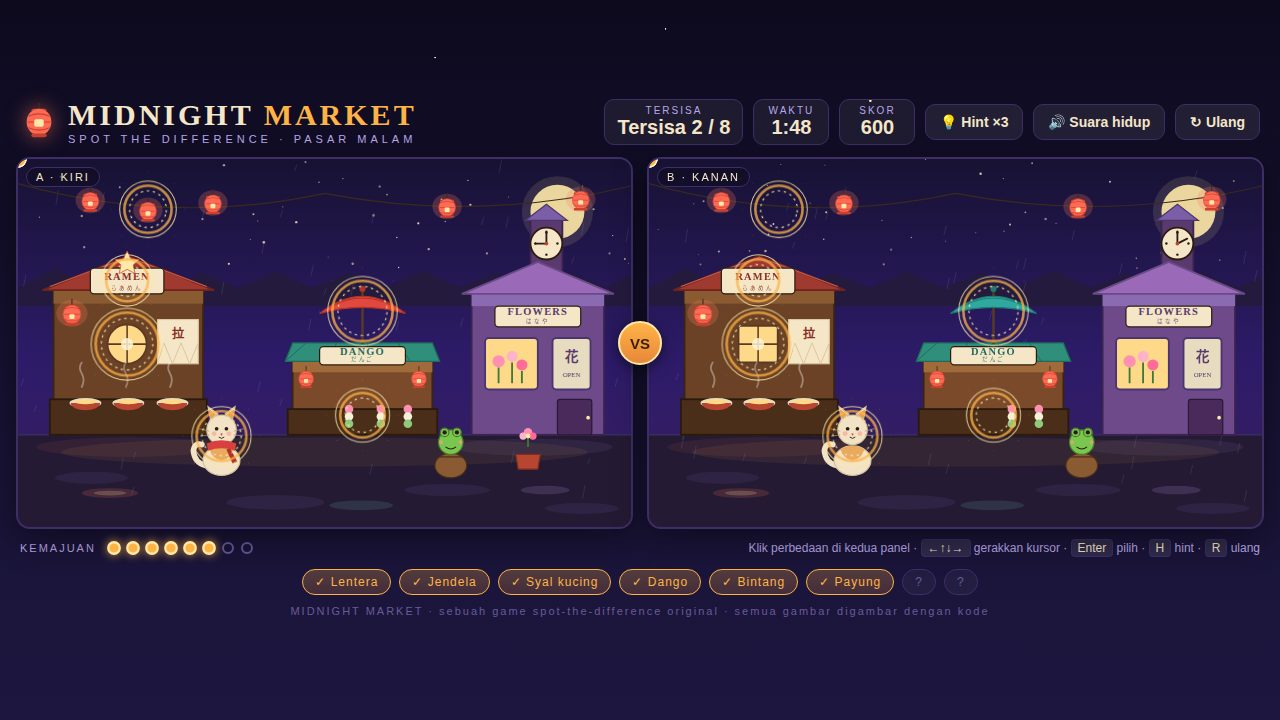
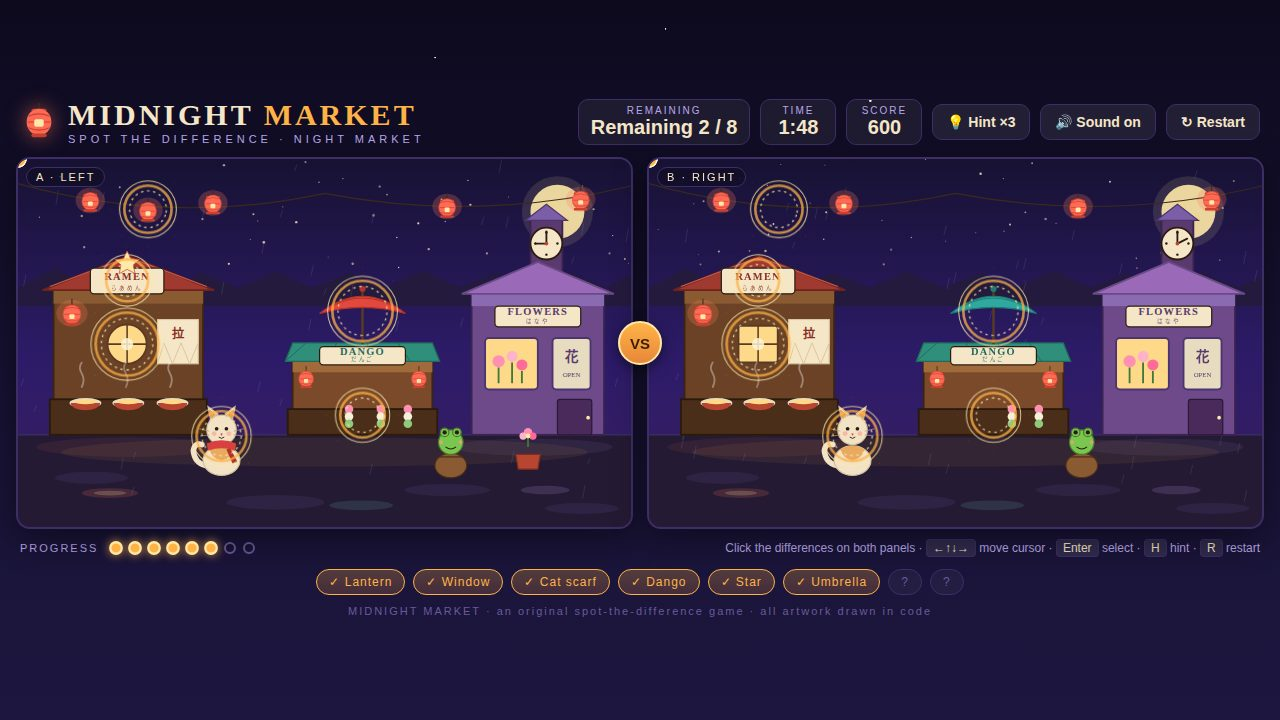
Translate MIDNIGHT MARKET fully to English — HUD, screens, difference names, footer; new screenshots

diff --git a/game/index.html b/game/index.html
@@ -1,5 +1,5 @@
 <!DOCTYPE html>
-<html lang="id">
+<html lang="en">
 <head>
 <meta charset="utf-8">
 <meta name="viewport" content="width=device-width, initial-scale=1">
@@ -20,35 +20,35 @@
       </svg>
       <div>
         <h1>MIDNIGHT <span>MARKET</span></h1>
-        <small>SPOT THE DIFFERENCE · PASAR MALAM</small>
+        <small>SPOT THE DIFFERENCE · NIGHT MARKET</small>
       </div>
     </div>
     <div class="hud" role="status" aria-live="polite">
-      <div class="stat"><span class="label">Tersisa</span><span class="value" id="counter">8 / 8</span></div>
-      <div class="stat timer"><span class="label">Waktu</span><span class="value" id="timer">3:00</span></div>
-      <div class="stat"><span class="label">Skor</span><span class="value" id="score">0</span></div>
-      <button class="btn" id="hint-btn" type="button" title="Sorot satu perbedaan yang belum ketemu (H)">💡 Hint ×<span id="hints-left">3</span></button>
-      <button class="btn" id="mute-btn" type="button" aria-pressed="false">🔊 Suara hidup</button>
-      <button class="btn" id="restart-btn" type="button" title="Mulai ulang (R)">↻ Ulang</button>
+      <div class="stat"><span class="label">Remaining</span><span class="value" id="counter">8 / 8</span></div>
+      <div class="stat timer"><span class="label">Time</span><span class="value" id="timer">3:00</span></div>
+      <div class="stat"><span class="label">Score</span><span class="value" id="score">0</span></div>
+      <button class="btn" id="hint-btn" type="button" title="Highlight one difference you haven't found yet (H)">💡 Hint ×<span id="hints-left">3</span></button>
+      <button class="btn" id="mute-btn" type="button" aria-pressed="false">🔊 Sound on</button>
+      <button class="btn" id="restart-btn" type="button" title="Restart (R)">↻ Restart</button>
     </div>
   </header>
 
   <main class="panels">
-    <div class="panel" id="panel-a" tabindex="0" role="button" aria-label="Panel kiri: klik perbedaan yang kamu temukan, atau gerakkan kursor dengan panah lalu tekan Enter">
+    <div class="panel" id="panel-a" tabindex="0" role="button" aria-label="Left panel: click the differences you find, or move the cursor with the arrow keys and press Enter">
       <div class="scene"></div>
-      <span class="panel-tag">A · KIRI</span>
+      <span class="panel-tag">A · LEFT</span>
     </div>
     <div class="vs-badge" aria-hidden="true">VS</div>
-    <div class="panel" id="panel-b" tabindex="0" role="button" aria-label="Panel kanan: klik perbedaan yang kamu temukan, atau gerakkan kursor dengan panah lalu tekan Enter">
+    <div class="panel" id="panel-b" tabindex="0" role="button" aria-label="Right panel: click the differences you find, or move the cursor with the arrow keys and press Enter">
       <div class="scene"></div>
-      <span class="panel-tag">B · KANAN</span>
+      <span class="panel-tag">B · RIGHT</span>
     </div>
   </main>
 
   <div class="progress">
-    <span class="cap">Kemajuan</span>
-    <span id="dots" aria-label="Perbedaan yang sudah ditemukan"></span>
-    <span class="hint">Klik perbedaan di kedua panel · <kbd>←↑↓→</kbd> gerakkan kursor · <kbd>Enter</kbd> pilih · <kbd>H</kbd> hint · <kbd>R</kbd> ulang</span>
+    <span class="cap">Progress</span>
+    <span id="dots" aria-label="Differences found so far"></span>
+    <span class="hint">Click the differences on both panels · <kbd>←↑↓→</kbd> move cursor · <kbd>Enter</kbd> select · <kbd>H</kbd> hint · <kbd>R</kbd> restart</span>
   </div>
 
   <div class="found-list" id="found-list" aria-label="Daftar perbedaan"></div>
@@ -56,42 +56,42 @@
   <div class="screen" id="screen-start">
     <div class="card">
       <h2>MIDNIGHT <span>MARKET</span></h2>
-      <p class="sub">Pasar malam Jepang di bawah hujan — dua gambar yang hampir sama, delapan perbedaan yang bersembunyi.</p>
+      <p class="sub">A Japanese night market in the rain — two nearly identical pictures, eight hidden differences.</p>
       <ul class="rules">
-        <li>Temukan <b>8 perbedaan</b> antara panel kiri dan kanan.</li>
-        <li>Klik di <b>kedua panel</b> — perbedaan yang sama ada di keduanya.</li>
-        <li>Kamu punya <b>3:00 menit</b> dan <b>3 hint</b>. Klik yang salah mengurangi skor.</li>
-        <li>Setiap temuan bernilai <b>+100</b>; sisa waktu jadi bonus di akhir.</li>
+        <li>Find <b>8 differences</b> between the left and right panels.</li>
+        <li>Click on <b>both panels</b> — the same difference appears in each one.</li>
+        <li>You have <b>3:00 minutes</b> and <b>3 hints</b>. A wrong click lowers your score.</li>
+        <li>Each find is worth <b>+100</b>; leftover time becomes a bonus at the end.</li>
       </ul>
-      <button class="btn primary" id="start-btn" type="button">▶ Mulai Bermain</button>
-      <p class="controls">Mouse atau keyboard: <kbd>←↑↓→</kbd> kursor · <kbd>Enter</kbd> pilih · <kbd>H</kbd> hint · <kbd>R</kbd> ulang · <kbd>M</kbd> suara</p>
+      <button class="btn primary" id="start-btn" type="button">▶ Start Playing</button>
+      <p class="controls">Mouse or keyboard: <kbd>←↑↓→</kbd> cursor · <kbd>Enter</kbd> select · <kbd>H</kbd> hint · <kbd>R</kbd> restart · <kbd>M</kbd> sound</p>
     </div>
   </div>
 
   <div class="screen hidden" id="screen-win">
     <div class="card">
       <div class="win-badge" aria-hidden="true">🏮</div>
-      <h2>SELAMAT! <span>🎉</span></h2>
-      <p class="sub">Kamu menemukan semua 8 perbedaan di Midnight Market.</p>
+      <h2>YOU DID IT! <span>🎉</span></h2>
+      <p class="sub">You found all 8 differences in Midnight Market.</p>
       <div class="stats">
-        <div class="stat"><span class="label">Waktu</span><span class="value" id="win-time">0:00</span></div>
-        <div class="stat"><span class="label">Skor akhir</span><span class="value" id="win-score">0</span></div>
-        <div class="stat"><span class="label">Akurasi</span><span class="value" id="win-acc">0%</span></div>
+        <div class="stat"><span class="label">Time</span><span class="value" id="win-time">0:00</span></div>
+        <div class="stat"><span class="label">Final score</span><span class="value" id="win-score">0</span></div>
+        <div class="stat"><span class="label">Accuracy</span><span class="value" id="win-acc">0%</span></div>
       </div>
       <p class="sub" id="win-bonus"></p>
-      <button class="btn primary" id="play-again-btn" type="button">↻ Main Lagi</button>
+      <button class="btn primary" id="play-again-btn" type="button">↻ Play Again</button>
     </div>
   </div>
 
   <div class="screen hidden" id="screen-timeout">
     <div class="card">
-      <h2>WAKTU <span>HABIS</span></h2>
-      <p class="sub">Lentera pasar mulai padam… kamu menemukan <b id="timeout-found">0 / 8</b> perbedaan.</p>
-      <button class="btn primary" id="retry-btn" type="button">↻ Coba Lagi</button>
+      <h2>TIME'S <span>UP</span></h2>
+      <p class="sub">The market lanterns are going out… you found <b id="timeout-found">0 / 8</b> differences.</p>
+      <button class="btn primary" id="retry-btn" type="button">↻ Try Again</button>
     </div>
   </div>
 
-  <footer>MIDNIGHT MARKET · sebuah game spot-the-difference original · semua gambar digambar dengan kode</footer>
+  <footer>MIDNIGHT MARKET · an original spot-the-difference game · all artwork drawn in code</footer>
 </div>
 <script type="module" src="src/main.js"></script>
 </body>

diff --git a/game/src/differences.js b/game/src/differences.js
@@ -7,7 +7,7 @@
 export const DIFFS = [
   {
     id: 'lantern-missing',
-    short: 'Lentera',
+    short: 'Lantern',
     key: 'lantern',
     label: 'A paper lantern is missing from the string lights',
     x: 212,
@@ -16,7 +16,7 @@ export const DIFFS = [
   },
   {
     id: 'window-shape',
-    short: 'Jendela',
+    short: 'Window',
     key: 'window',
     label: 'The ramen stall window changed shape',
     x: 178,
@@ -25,7 +25,7 @@ export const DIFFS = [
   },
   {
     id: 'cat-scarf',
-    short: 'Syal kucing',
+    short: 'Cat scarf',
     key: 'scarf',
     label: 'The cat lost its red scarf',
     x: 332,
@@ -43,7 +43,7 @@ export const DIFFS = [
   },
   {
     id: 'sign-star',
-    short: 'Bintang',
+    short: 'Star',
     key: 'star',
     label: 'The star on the ramen sign is gone',
     x: 178,
@@ -52,7 +52,7 @@ export const DIFFS = [
   },
   {
     id: 'umbrella-color',
-    short: 'Payung',
+    short: 'Umbrella',
     key: 'umbrella',
     label: 'The stall umbrella changed colour',
     x: 562,
@@ -61,7 +61,7 @@ export const DIFFS = [
   },
   {
     id: 'flower-missing',
-    short: 'Bunga',
+    short: 'Flower pot',
     key: 'flower',
     label: 'A potted flower by the flower shop is missing',
     x: 832,
@@ -70,7 +70,7 @@ export const DIFFS = [
   },
   {
     id: 'clock-hands',
-    short: 'Jam',
+    short: 'Clock hands',
     key: 'clock',
     label: 'The clock tower shows a different time',
     x: 862,

diff --git a/game/src/ui.js b/game/src/ui.js
@@ -8,7 +8,7 @@ const $ = (id) => document.getElementById(id);
 // Update every HUD field from the current game state.
 export function updateHud(state) {
   const remaining = state.total - state.found.size;
-  $('counter').textContent = `Tersisa ${remaining} / ${state.total}`;
+  $('counter').textContent = `Remaining ${remaining} / ${state.total}`;
   $('score').textContent = String(state.score);
   $('hints-left').textContent = String(state.hintsLeft);
   $('timer').textContent = formatTime(state.timeLeft);
@@ -65,7 +65,7 @@ export function showScreen(name, stats) {
     $('win-time').textContent = formatTime(stats.timeUsed);
     $('win-score').textContent = String(stats.score);
     $('win-acc').textContent = `${stats.accuracy}%`;
-    $('win-bonus').textContent = `+${stats.bonus} bonus waktu`;
+    $('win-bonus').textContent = `+${stats.bonus} time bonus`;
   }
   if (name === 'timeout' && stats) {
     $('timeout-found').textContent = `${stats.found} / ${stats.total}`;
@@ -73,7 +73,7 @@ export function showScreen(name, stats) {
 }
 
 export function setMuteButton(muted) {
-  $('mute-btn').textContent = muted ? '🔇 Suara mati' : '🔊 Suara hidup';
+  $('mute-btn').textContent = muted ? '🔇 Sound off' : '🔊 Sound on';
   $('mute-btn').setAttribute('aria-pressed', String(muted));
 }
 

diff --git a/game/src/main.js b/game/src/main.js
@@ -43,8 +43,8 @@ function overlaySvg() {
 
 function mountPanels() {
   const defs = [
-    { id: 'panel-a', variant: 'A', label: 'Panel kiri' },
-    { id: 'panel-b', variant: 'B', label: 'Panel kanan' },
+    { id: 'panel-a', variant: 'A', label: 'Left panel' },
+    { id: 'panel-b', variant: 'B', label: 'Right panel' },
   ];
   panels = defs.map(({ id, variant }) => {
     const el = document.getElementById(id);
@@ -146,7 +146,7 @@ function onPick(diff, pt, panelEl) {
   }
   if (diff && state.found.has(diff.id)) {
     // Re-clicking a found difference: gentle reminder, no penalty.
-    floatScore(panelEl, pt.x, pt.y, 'Sudah ketemu', true);
+    floatScore(panelEl, pt.x, pt.y, 'Already found', true);
     return;
   }
   // A miss: small penalty, a red ripple, and the counter stays honest.
